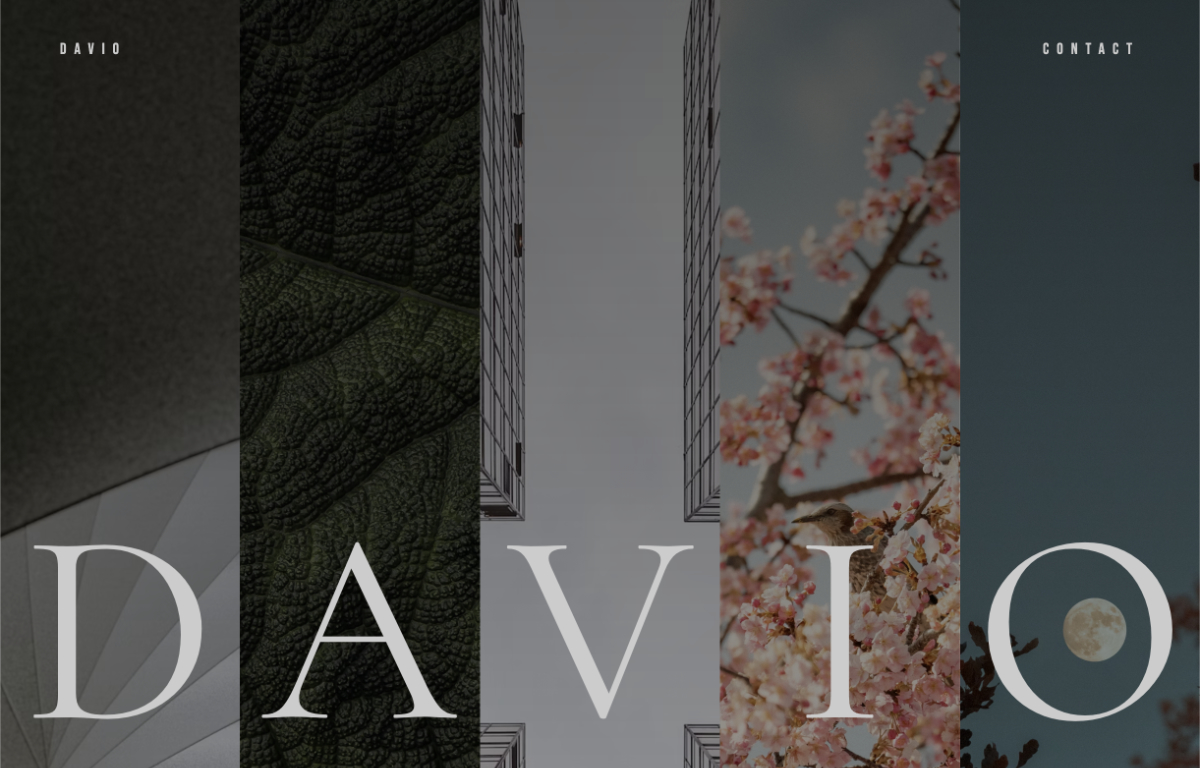
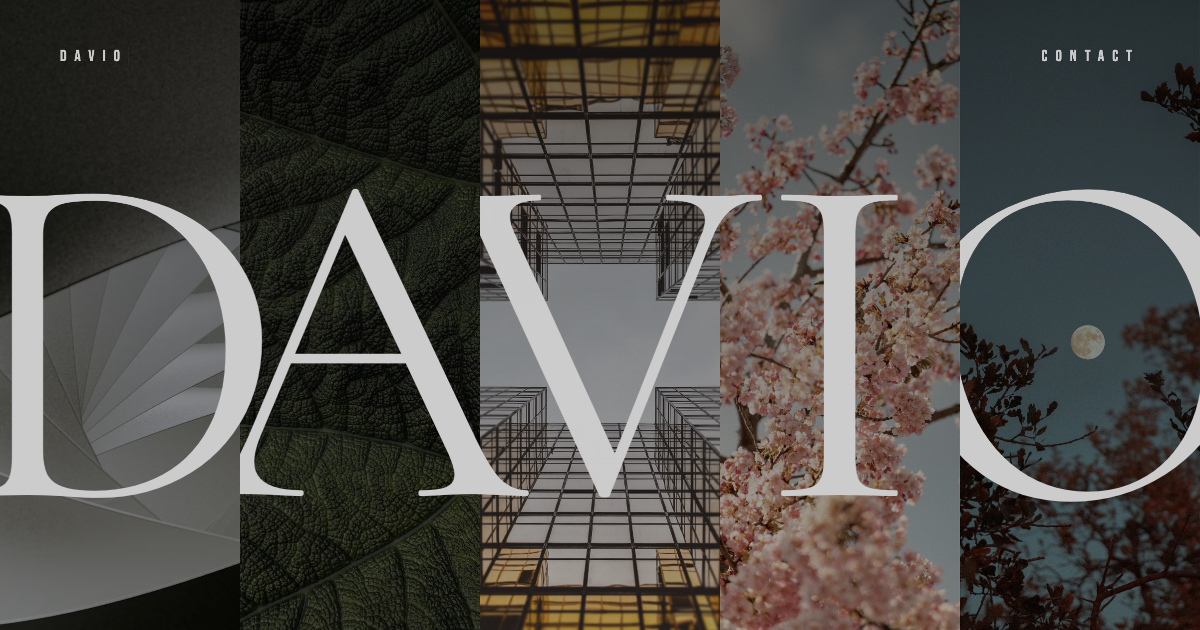
share-image, og title

diff --git a/index.html b/index.html
@@ -3,10 +3,13 @@
 <head>
     <meta charset="UTF-8">
     <meta name="viewport" content="width=device-width, initial-scale=1.0">
+    <meta property="og:title" content="Your Page Title">
+    <meta property="og:description" content="Davio, web dev developper programmer designer.">
     <meta property="og:image" content="https://daviorobitaille.github.io/static/images/share-image.jpg">
-    <meta property="og:image:type" content="image/png">
+    <meta property="og:image:type" content="image/jpeg">
     <meta property="og:image:width" content="1200">
-    <meta property="og:image:height" content="768">
+    <meta property="og:image:height" content="630">
+    <meta property="og:url" content="https://daviorobitaille.github.io/">
     <title>Davio | Web Artist</title>
     <link rel="stylesheet" href="/assets/css/main.css">
 </head>

diff --git a/assets/js/animations.js b/assets/js/animations.js
@@ -289,7 +289,7 @@ function gotoSection(index, direction) {
     }, {
       xPercent: 0,
       autoAlpha: 1,
-      duration: 5,
+      duration: 10,
       ease: "power4",
       stagger: {
         each: 0.1,
